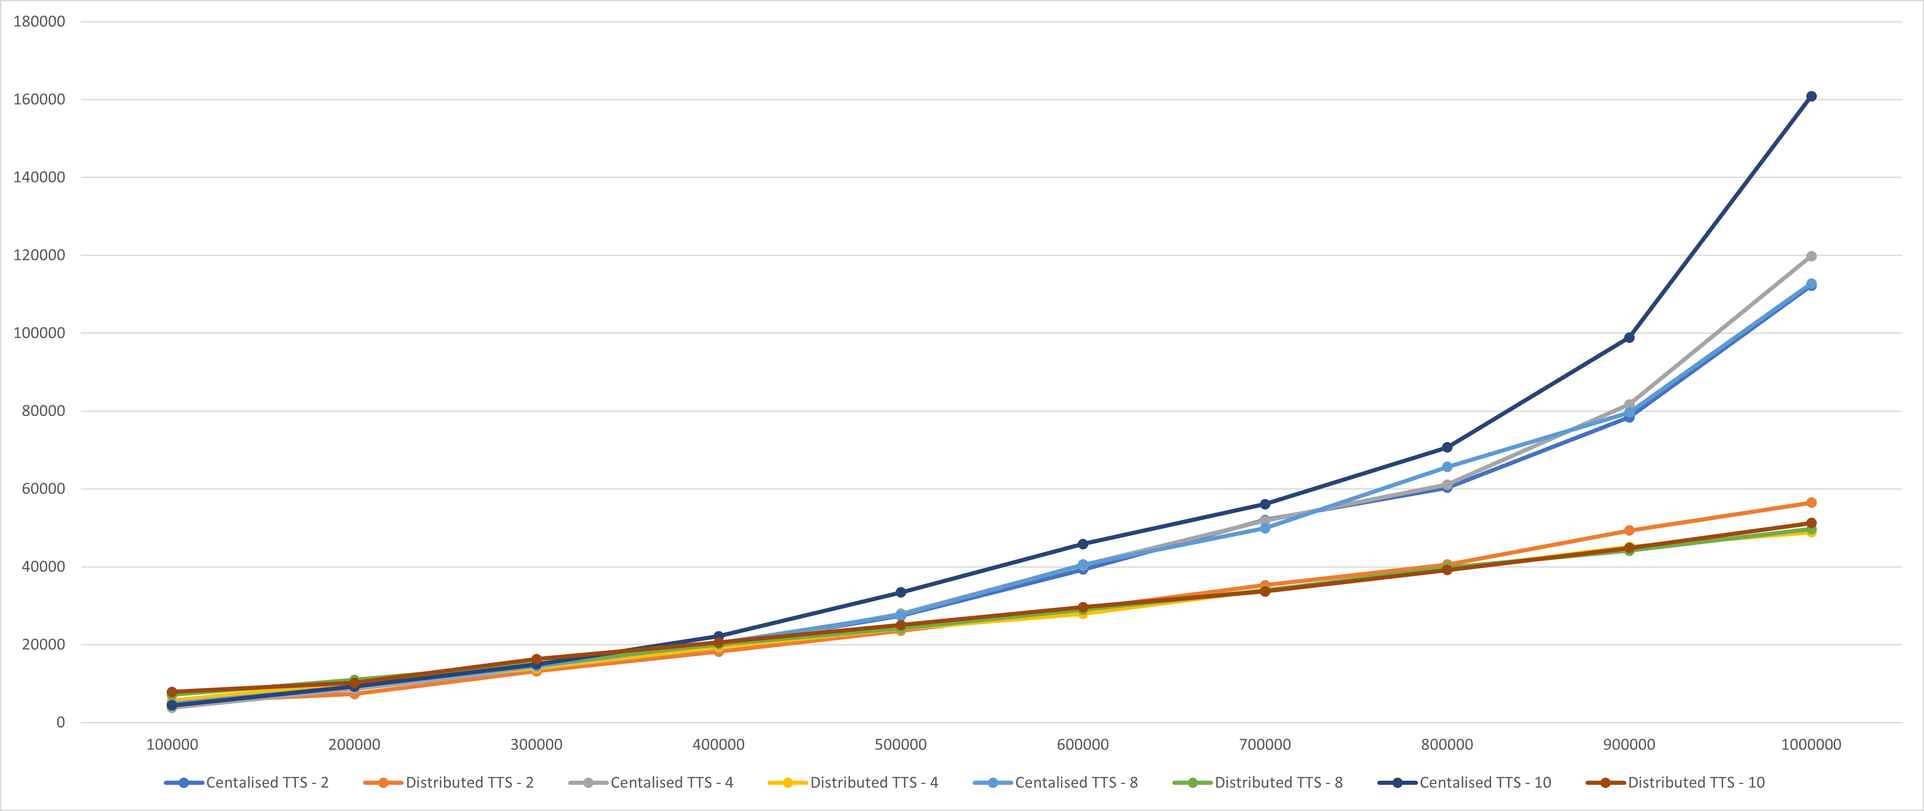
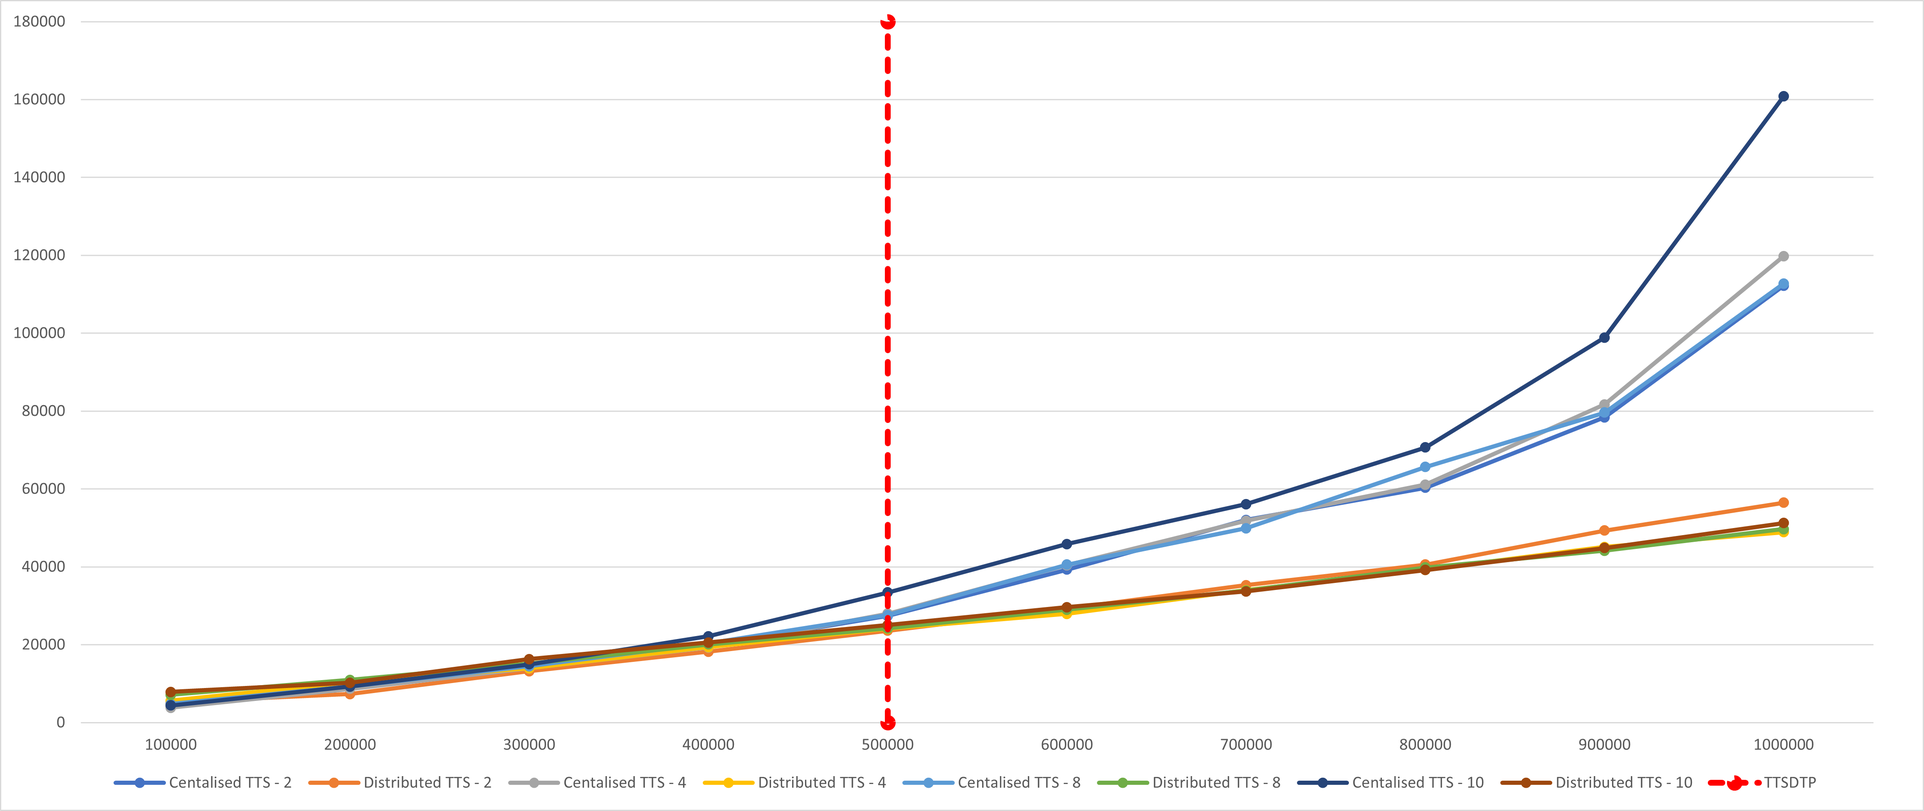
Updated with document changes from supervisor.

diff --git a/ReportBackup/main.tex b/ReportBackup/main.tex
@@ -96,7 +96,7 @@
 \chapter*{Declaration}
 \addcontentsline{toc}{chapter}{Declaration}
 I certify that this dissertation which I now submit for examination for the award of
-MSc in Computing (Stream), is entirely my own work and has not been taken
+MSc in Computing (TU060), is entirely my own work and has not been taken
 from the work of others save and to the extent that such work has been cited and
 acknowledged within the text of my work.
 \\
@@ -160,7 +160,7 @@ I would like to express my sincere thanks to my supervisor Dr. Edina Hatunic Web
     \textbf{TTS} & Time To Solution \\
     \textbf{CSV} & Comma Separated Values \\
     \textbf{JSON} & JavaScript Object Notation \\
-    
+    \textbf{TTSDTP} & Time To Solution Distributed Tipping Point \\
     \end{tabular}
 \end{table}
 
@@ -830,10 +830,11 @@ This chapter covered in depth how the PSO code implementations where developed, 
 \section{Introduction}
 This chapter discusses the results obtained from running the experiment described in detail in chapters three and four. Results from the centralised and distributed implementations will be presented and compared. As discussed in chapter three, several fitness functions where tested in this experiment, this chapter will expand on each for both implementations, with a primary focus on the time to solution value. This chapter will also evaluate the results, with some discussion taking place. 
 
-\section{Centralised Testing and Results}
+\section{Results}
+\subsection{Centralised Results}
 Chapter three and four described the process of running the experiment in detail, in this section the results from those experiment runs will be presented. Each fitness function will be examined and results will be presented. All results are an average of three tests runs in order to compensate for the random element in PSO. Results were compared in a like for like manner, meaning when we compare the number of particles between a two swarm test and a ten swarm test, we are comparing the total number of particles in the test, not how many particles on each swarm. To further expand on that example, when comparing 100,000 particle tests, we look at there being 50,000 particles on each swarm in the two swarm test, and 10,000 particles on each swarm in the 10 swarm tests. This goes for both the centralised and distributed implementation tests. 
 
-\subsection{Easom Function}
+\subsubsection{Easom Function}
 The first function to cover is the centralised Easom test runs. Figure \ref{fig:Centralised_TTS_Easom_Results} shows the results when looking at the time to solution(TTS). In the results we can see that as the number of particles increases, the time to solution increases at a disproportionate rate. TTS for each swarm tends to increase at the same rate, except for the ten swarm test runs, where the TTS is slightly longer at the beginning, but increases at a much greater degree closer to the 1,000,000 particles tests.
 
 \begin{figure}[H]
@@ -852,7 +853,7 @@ Figure \ref{fig:Centralised_Epoc_Easom_Results} shows the number of epochs or it
     \label{fig:Centralised_Epoc_Easom_Results}
 \end{figure}
 
-\subsection{Booths Function}
+\subsubsection{Booths Function}
 Looking at the Booths function results in figure \ref{fig:Centralised_TTS_Booths_Results} we see it closely follow the Easom function results, in that the general trend on the results looks to be at an exponential increase. Once again the the test runs where ten swarms are used show a slight increase in the TTS at lower numbers of particles, and a large increase towards the one million particles run.
 
 \begin{figure}[H]
@@ -871,7 +872,7 @@ Figure \ref{fig:Centralised_Epoc_Booths_Results} shows the results of the averag
     \label{fig:Centralised_Epoc_Booths_Results}
 \end{figure}
 
-\subsection{Beale Function}
+\subsubsection{Beale Function}
 
 Looking at the Beale TTS results in figure \ref{fig:Centralised_TTS_Beale_Results}, the same general trends from Easom and Booths function can be seen, with the general trend looking to be exponential. Again the higher number of swarms tends to end up with a higher TTS as particles increase. 
 
@@ -891,10 +892,10 @@ Figure \ref{fig:Centralised_Epoc_Beale_Results} shows the number of epochs each 
     \label{fig:Centralised_Epoc_Beale_Results}
 \end{figure}
 
-\section{Distributed results}
+\subsection{Distributed Results}
 This section examines the results from the distributed implementation tests, using the same format as the centralised results section. Each fitness function's results will be presented the, primarily focusing on the TTS and number of Epochs to solution, along with a small amount of commentary on these results. 
 
-\subsection{Easom Function}
+\subsubsection{Easom Function}
 Looking at the Easom function first, figure \ref{fig:Distributed_TTS_Easom_Results} shows the TTS results. TTS appears to linearly increase with the number of particles, across all number of swarms. At the upper end of the experiment bounds, with one million particles the two swarm tests appear to increase at a great rate than the four, eight and ten swarm tests, all of which appear to continue the same rate of increase in TTS. There are some variations in this linear increase, most notably the eight swarm tests show a large decrease in TTS at the 800,000 particle point, but otherwise the variations are relatively minor. 
 
 \begin{figure}[H]
@@ -913,7 +914,7 @@ Figure \ref{fig:Distributed_Epoc_Easom_Results} shows the number of epochs to so
     \label{fig:Distributed_Epoc_Easom_Results}
 \end{figure}
 
-\subsection{Booths Function}
+\subsubsection{Booths Function}
 Looking next at booths function figure \ref{fig:Distributed_TTS_Booths_Results} shows the TTS results. Looking at the results shows similar trends as the Easom function results, with the overall trend appearing to be a linear increase in TTS as the number of particles increases. Two swarm tests once again appear to increase at a more aggressive rate towards the upper particle numbers. The ten swarm tests show an overall higher TTS than any other number of swarms. Eight swarm tests showed a large decrease in TTS at the 800,000 particles interval, but resumes the same trend at the next interval. 
 
 \begin{figure}[H]
@@ -932,7 +933,7 @@ Figure \ref{fig:Distributed_Epoc_Booths_Results} shows the epochs to solution re
     \label{fig:Distributed_Epoc_Booths_Results}
 \end{figure}
 
-\subsection{Beale Function}
+\subsubsection{Beale Function}
 Finally, looking at figure \ref{fig:Distributed_TTS_Beale_Results} we can see the TTS results for the Beale function. Again this follows the same trends as Booths and Easom functions, however its even less erratic, with little to no variance in the swam tests. Again the two swarm test runs show signs of it increasing at more than a linear increase at the higher number of particles, 900,000 and 1,000,000 particle tests. 
 \begin{figure}[H]
     \centering
@@ -950,7 +951,7 @@ Looking at figure \ref{fig:Distributed_Epoc_Beale_Results} we can see that once 
     \label{fig:Distributed_Epoc_Beale_Results}
 \end{figure}
 
-\section{Performance comparison}
+\section{Results Evaluation}
 Figure \ref{fig:PerformanceComparisonEasomTTS} displays a direct comparison between the distributed implementation of the Easom TTS results, and the centralised TTS results. This clearly displays the general trend of the centralised implementation towards an exponential increase, whereas the distributed implementation more closely follows a linear increase in TTS.  
 \begin{figure}[H]
     \centering
@@ -959,25 +960,24 @@ Figure \ref{fig:PerformanceComparisonEasomTTS} displays a direct comparison betw
     \label{fig:PerformanceComparisonEasomTTS}
 \end{figure}
 
-Looking more closely at figure \ref{fig:PerformanceComparisonEasomTTS} we can see the two implementation seem to diverge in TTS increase rate at around five hundred thousand particles. This is more or less the same case in both Beale, figure \ref{fig:PerformanceComparisonBoothsTTS} and Booths function figure \ref{fig:PerformanceComparisonBealeTTS}. In all three results it shows the distributed implementation increasing at a linear rate, while the centralised implementations begins to increase exponentially after the five hundred thousand particles tests. There are other patterns observable in all three results, including the same tendency for two swarm tests in the centralised implementation to increase at a more rapid rate than other number of swarms at the higher number of particles tests. 
+Looking more closely at figure \ref{fig:PerformanceComparisonEasomTTS} we can see the two implementation seem to diverge in TTS increase rate at around 500,000 particles. This is more or less the same case in both Beale, figure \ref{fig:PerformanceComparisonBoothsTTS} and Booths function figure \ref{fig:PerformanceComparisonBealeTTS}. In the graphs we can see the red line denotes this tipping point, TTSDTP(Time To Solution Distributed Tipping Point). In all three results it shows the distributed implementation increasing at a linear rate, while the centralised implementations begins to increase exponentially after the five hundred thousand particles tests. There are other patterns observable in all three results, including the same tendency for two swarm tests in the centralised implementation to increase at a more rapid rate than other number of swarms at the higher number of particles tests. 
 
 \begin{figure}[H]
-  \centering
-  \begin{minipage}[b]{0.48\textwidth}
-    \includegraphics[width=\textwidth]{Images/Graphs/PerformanceComparisonBoothsTTS.png}
+    \centering
+    \includegraphics[scale=0.45]{Images/Graphs/PerformanceComparisonBoothsTTS.png}
     \caption{Booths TTS comparison}
     \label{fig:PerformanceComparisonBoothsTTS}
-  \end{minipage}
-  \hfill
-  \begin{minipage}[b]{0.48\textwidth}
-    \includegraphics[width=\textwidth]{Images/Graphs/PerformanceComparisonBealeTTS.png}
+\end{figure}
+
+\begin{figure}[H]
+    \centering
+    \includegraphics[scale=0.45]{Images/Graphs/PerformanceComparisonBealeTTS.png}
     \caption{Beale TTS comparison}
     \label{fig:PerformanceComparisonBealeTTS}
-  \end{minipage}
 \end{figure}
 
 
-All three functions display a large increase in TTS at the early stage of the experiment, with one hundred thousand particles. Table \ref{tab:TTSOneHundredThousand} compares these results. In the case of the Beale function, on average, the distributed implementation was 50\% slower at finding a result. Easoms function had an even greater increase, taking 61\% more time to find a solution, and Booths function was even bigger again, with it taking 82\% more time in finding a solution. 
+All three functions display a large increase in TTS at the early stage of the experiment, with 100,000 particles. Table \ref{tab:TTSOneHundredThousand} compares these results. In the case of the Beale function, on average, the distributed implementation was 50\% slower at finding a result. Easoms function had an even greater increase, taking 61\% more time to find a solution, and Booths function was even bigger again, with it taking 82\% more time in finding a solution. 
 
 % Table generated by Excel2LaTeX from sheet 'Test'
 \begin{table}[H]
@@ -1002,7 +1002,7 @@ All three functions display a large increase in TTS at the early stage of the ex
   \label{tab:TTSOneHundredThousand}%
 \end{table}%
 
-Conversely there are some significant gains in TTS for the distributed implementation at the highest number of particles. Table \ref{tab:TTSOneMillion} compares these results for one million particle tests. For the Beale function it was found that the distributed implementation was on average 145\% faster than the centralised implementation. Similar performance gains where found with both Booths and Easom function, with Booths being 152\% faster, and Easom being 123\% faster. 
+Conversely there are some significant gains in TTS for the distributed implementation at the highest number of particles. Table \ref{tab:TTSOneMillion} compares these results for 1,000,000 particle tests. For the Beale function it was found that the distributed implementation was on average 145\% faster than the centralised implementation. Similar performance gains where found with both Booths and Easom function, with Booths being 152\% faster, and Easom being 123\% faster. 
 
 
 \begin{table}[H]
@@ -1026,7 +1026,7 @@ Conversely there are some significant gains in TTS for the distributed implement
   \label{tab:TTSOneMillion}%
 \end{table}%
 
-When looking at the number of iterations between the two implementations there is very little difference the two. Looking at figures; \ref{fig:PerformanceComparisonEasomEpoch}, \ref{fig:PerformanceComparisonBoothsEpoch}, \ref{fig:PerformanceComparisonBealeEpoch}, we can see the same general trends in all three fitness functions. There is an overall gradual decline in iterations as particles increase, with some large variations, especially at the lower end of the particles. Overall the distributed implementations showed more variations than the centralised implementations. 
+When looking at the number of iterations between the two implementations there is very little difference between the two. Looking at figures; \ref{fig:PerformanceComparisonEasomEpoch}, \ref{fig:PerformanceComparisonBoothsEpoch}, \ref{fig:PerformanceComparisonBealeEpoch}, we can see the same general trends in all three fitness functions. There is an overall gradual decline in iterations as particles increase, with some large variations, especially at the lower end of the particles. Overall the distributed implementations showed more variations than the centralised implementations. 
 
 \begin{figure}[H]
     \centering
@@ -1050,14 +1050,16 @@ When looking at the number of iterations between the two implementations there i
   \end{minipage}
 \end{figure}
 
-\section{Results Evaluation}
-From the performance comparison section we can see there is a clear point in all three fitness functions whereby the distributed implementation displays a better time to solution than the centralised implementation. Interestingly, for all three this occurs at more or less the same point. Once the number of particles across all swarms reaches 500,000 or greater, the distributed implementation begins to be a more efficient implementation than the centralised implementation. Once the particles reach one million all three functions had a greater than 100\% decreases in time to solution compared to the corresponding centralised tests.
+\section{Results Discussion}
+From the performance comparison section we can see there is a clear point in all three fitness functions whereby the distributed implementation displays a better TTS than the centralised implementation. Interestingly, TTSDTP occurs for all three functions at more or less the same point. Once the number of particles across all swarms reaches 500,000 or greater, the distributed implementation begins to be a more efficient implementation than the centralised implementation. Once the particles reach one million all three functions had a greater than 100\% decreases in TTS compared to the corresponding centralised tests.
 
 This clearly answers the research question, that there is in fact a point whereby it is more efficient to run a distributed PSO implementation over a centralised implementation. However, this must be caveated by the fact that these results are only a guide, a different fitness function may have a different efficiency point. Additionally different implementation languages, or PSO implementation methods may also have different efficiency points. 
 We can therefore conclude that the alternate hypothesis has been proven, and there is a point where a distributed implementation is more time efficient than a centralised implementation. 
 
 In terms of differences between the number of iterations taken before finding a solution, between the two implementations, this study found no difference between the distributed implementation and the centralised implementation. There was a noticeable decline in the number of iterations across both implementations as the number of particles increased, and this was evident across all three fitness functions. When looking at other resulting data points, such as the average x/y value, and final group best, this study found no difference between the implementation, and no differences as the number of particles increase. The number of particles used in this study can be considered overkill, as the number of particles required to correctly find a solution to any of the fitness functions was significantly lower than what was used in this study. However, as matching the trend seen in both implementations, the lower number of particles required much more iterations to find a "settled" solution. 
 
+\subsection{Strengths and Limitations of Results}
+The key strength to this research is the consistency of the results across the three fitness functions. All three fitness functions displayed a TTSDTP at around 500,000 particles, which gives a very clear answer to the research question. This also give a strong starting position for future research, as there is a clear answer as to whether the research should use a distributed or centralised model, based on the number of particles required for the research. The limitation within in this however, is that this research piece was only conducted with one specific environment. Using a machine with a greater level of RAM or a higher quality CPU may produce different results. Additionally different languages may have different TTSDTP's, even with the same fitness functions. Finally while these results strongly point toward 500,000 thousand particles as being the TTSDTP, this is really only relevant for functions with a similar complexity to the three chosen for this study. Using a more complex or significantly simpler fitness function will likely result it a different TTSDTP than the one found in this study. 
 
 \section{Conclusion}
 This chapter covered in-depth the results obtained from running the experiment described in chapters three and four. Each implementations results where presented, subdivided by the individual fitness function tested. Commentary was provided on these results, with some notable trends highlighted. 
@@ -1121,7 +1123,7 @@ Chapter two presented and cited many forms of robotics or simulated robotic PSO 
 % Optional appendices
 \appendix
 \chapter{Code Snippets}
-Listing A.1 shows and example data output produced for the booths fitness function from a distributed and centralised PSO implementation. 
+Listing \ref{listing:DataOutputExample} shows and example data output produced for the booths fitness function from a distributed and centralised PSO implementation. 
 \begin{lstlisting}
 {
 	"finalGroupBest": 0.0,
@@ -1141,6 +1143,9 @@ Listing A.1 shows and example data output produced for the booths fitness functi
 }
 \end{lstlisting}
 \captionof{lstlisting}{Data output example}
+\label{listing:DataOutputExample}
+
+Listing \ref{listing:DataAggregation} shows an extract of the data aggregation code. Code to retrieve the results from the file system, and aggregate and average them is visible. Code to output the resulting text string is omitted, but is a straightforward process of creating a text file using the variable \textit{outputString}.
 
 \begin{lstlisting}[basicstyle=\footnotesize, language=JavaScript]
 var outputString = "SWARM_NUMBER,PARTICLE_NUMBER,CENTRALISED_ITERATIONS,CENTRALISED_TIME_TO_SOLUTION,CENTRALISED_FINAL_GROUP_BEST,DISTRIBUTED_ITERATIONS,DISTRIBUTED_TIME_TO_SOLUTION,DISTRIBUTED_FINAL_GROUP_BEST\n";
@@ -1172,6 +1177,8 @@ Write outputString to file system.
 \end{lstlisting}
 \captionof{lstlisting}{Data aggregation Implementation}\label{listing:DataAggregation}
 
+Listing \ref{listing:NewmanImpl} shows an extract of the Newman API implementation code. Code to load the request file and environment variables can be seen, along with the code to write the result to the file system the format discussed in chapter three. 
+
 \begin{lstlisting}[basicstyle=\footnotesize, language=JavaScript]
 function runNewmanCode(envName, testCollectionName, environmentName, numberOfSwarms, numberOfParticles, baseUrlsSting, endpoint) {
     newman.run({
@@ -1192,6 +1199,7 @@ function runNewmanCode(envName, testCollectionName, environmentName, numberOfSwa
 \end{lstlisting}
 \captionof{lstlisting}{Newman Implementation Code}\label{listing:NewmanImpl}
 
+Listing \ref{listing:DistributedService} shows a partial extract of the distributed implementation service class. The swarm looping code can be seen, along with the stopping criteria code and the response formatting methods. 
 
 \begin{lstlisting}[basicstyle=\footnotesize, language=Java]
 public Response runDistributedCallingSystem(int numberOfParticles, List<String> baseUrls, ConfigVariables configVariables) {
@@ -1248,6 +1256,8 @@ public Response runDistributedCallingSystem(int numberOfParticles, List<String> 
 \end{lstlisting}
 \captionof{lstlisting}{Distributed Service Class}\label{listing:DistributedService}
 
+Listing \ref{listing:CentralisedServiceMethod} shows a partial extract of the centralised implementation service class. The swarm looping code can be seen, along with the stopping criteria code.
+
 \begin{lstlisting}[basicstyle=\footnotesize, language=Java]
 public Response runSwarm(Request request) throws Exception {
     Instant start = Instant.now();
@@ -1299,6 +1309,9 @@ public Response runSwarm(Request request) throws Exception {
 \captionof{lstlisting}{Centralised Service Class}\label{listing:CentralisedServiceMethod}
 
 \chapter{Data Results}
+
+Table \ref{tab:CentralisedEasomTTS} shows the full averaged result set for the centralised Easom function TTS. 
+
 % Table generated by Excel2LaTeX from sheet 'Summary'
 \begin{table}[H]
     \resizebox{\columnwidth}{!}{\begin{tabular}{|l|l|l|l|l|}
@@ -1319,6 +1332,7 @@ public Response runSwarm(Request request) throws Exception {
   \label{tab:CentralisedEasomTTS}%
 \end{table}%
 
+Table \ref{tab:CentralisedBoothsTTS} shows the full averaged result set for the centralised Booth's function TTS.
 
 % Table generated by Excel2LaTeX from sheet 'Summary'
 \begin{table}[H]
@@ -1346,9 +1360,11 @@ public Response runSwarm(Request request) throws Exception {
     \textbf{1000000} & 102709 & 103364 & 102856 & 131270 \\
     \hline
     \end{tabular}}%
-  \label{tab:CentralisedBoothsTTS}%
   \caption{Centralised Booths TTS} 
+  \label{tab:CentralisedBoothsTTS}%
 \end{table}%
+
+Table \ref{tab:CentralisedBealeTTS} shows the full averaged result set for the centralised Beale's function TTS.
 
 \begin{table}[H]
     \resizebox{\columnwidth}{!}{\begin{tabular}{|l|l|l|l|l|}
@@ -1375,10 +1391,11 @@ public Response runSwarm(Request request) throws Exception {
     \textbf{1000000} & 112258 & 119800 & 112751 & 160899 \\
     \hline
     \end{tabular}}%
-  \label{tab:CentralisedBealeTTS}%
   \caption{Centralised Beale TTS} 
+  \label{tab:CentralisedBealeTTS}%
 \end{table}%
 
+Table \ref{tab:DistributedEasomTTS} shows the full averaged result set for the distributed Easom's function TTS.
 
 % Table generated by Excel2LaTeX from sheet 'Summary'
 \begin{table}[H]
@@ -1406,9 +1423,11 @@ public Response runSwarm(Request request) throws Exception {
     1000000 & 29327 & 23923 & 24623 & 26300 \\
     \hline
     \end{tabular}}%
-  \label{tab:DistributedEasomTTS}%
   \caption{Distributed Easom TTS} 
+  \label{tab:DistributedEasomTTS}%
 \end{table}%
+
+Table \ref{tab:DistributedBothsTTS} shows the full averaged result set for the distributed Booth's function TTS.
 
 % Table generated by Excel2LaTeX from sheet 'Summary'
 \begin{table}[H]
@@ -1436,9 +1455,11 @@ public Response runSwarm(Request request) throws Exception {
     1000000 & 48322 & 39878 & 36861 & 49330 \\
     \hline
     \end{tabular}}%
-  \label{tab:DistributedBothsTTS}%
   \caption{Distributed Booths TTS} 
+  \label{tab:DistributedBothsTTS}%
 \end{table}%
+
+Table \ref{tab:DistributedBealeTTS} shows the full averaged result set for the distributed Beale's function TTS.
 
 % Table generated by Excel2LaTeX from sheet 'Summary'
 \begin{table}[H]
@@ -1466,12 +1487,8 @@ public Response runSwarm(Request request) throws Exception {
     1000000 & 56502 & 48906 & 49696 & 51248 \\
     \hline
     \end{tabular}}%
-  \label{tab:DistributedBealeTTS}%
   \caption{Distributed Beale TTS} 
+  \label{tab:DistributedBealeTTS}%
 \end{table}%
-
-
-
-
 
 \end{document}
